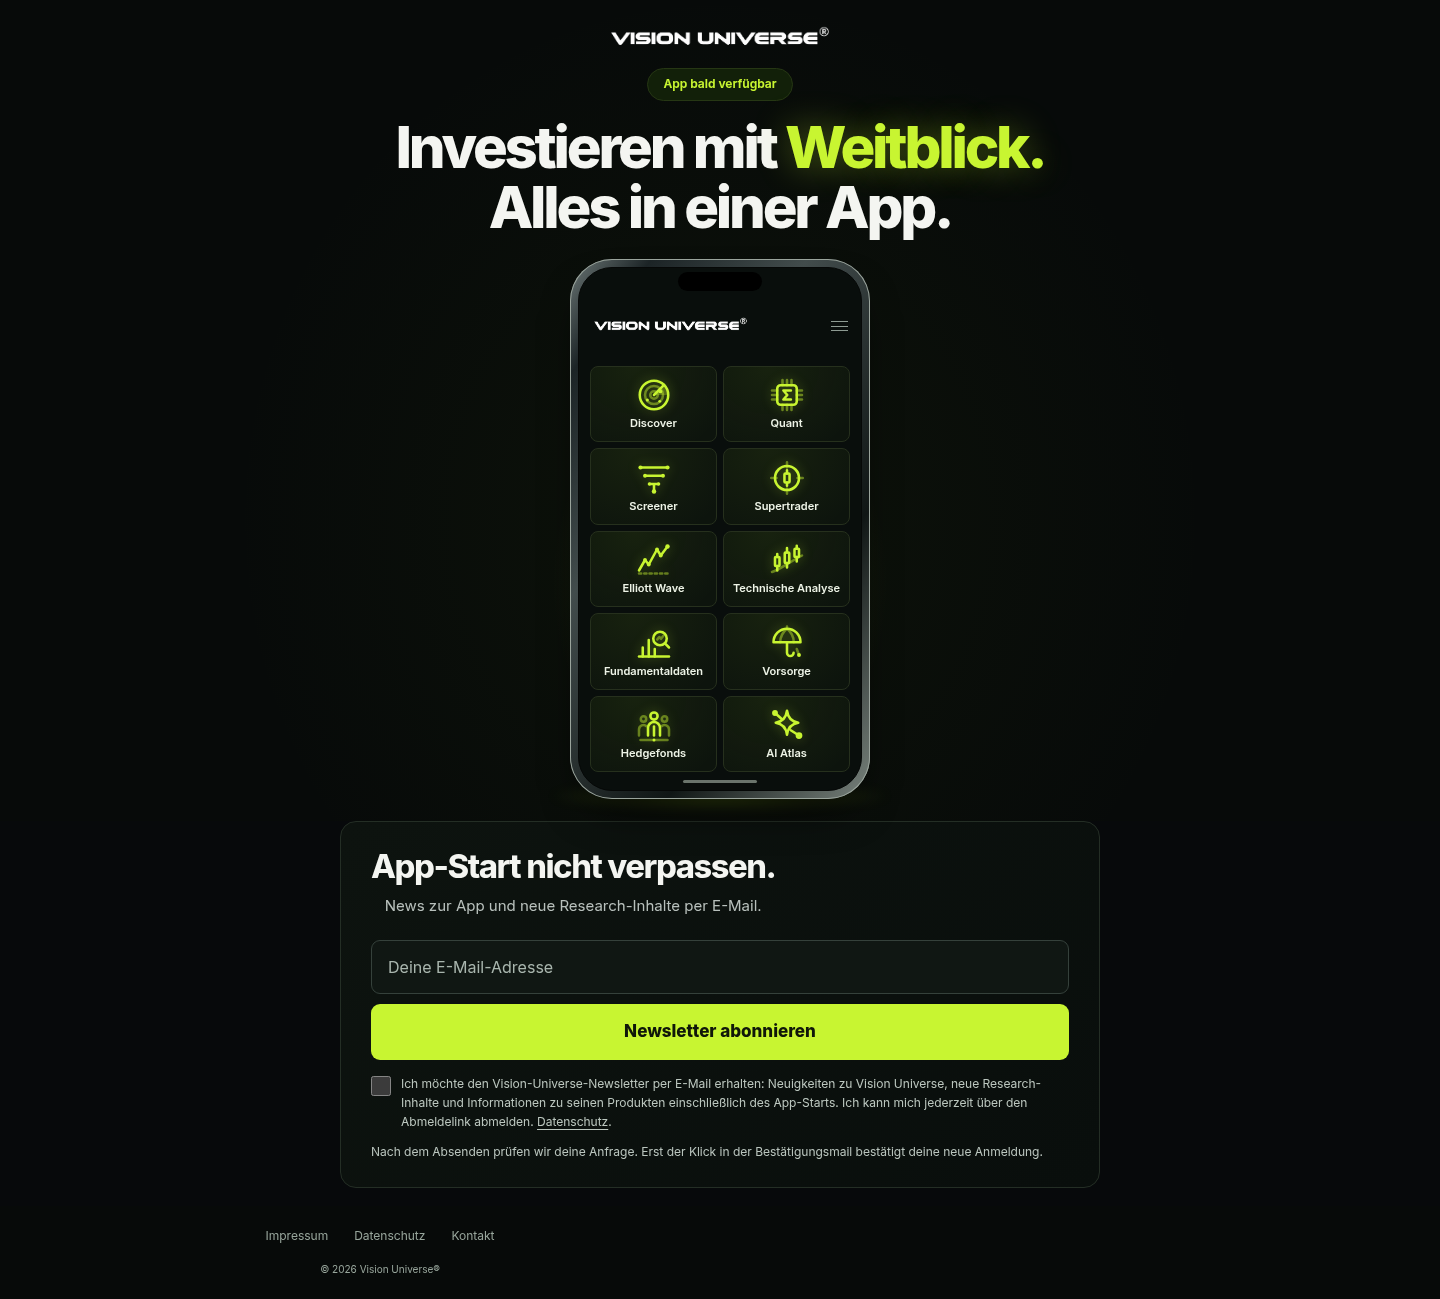
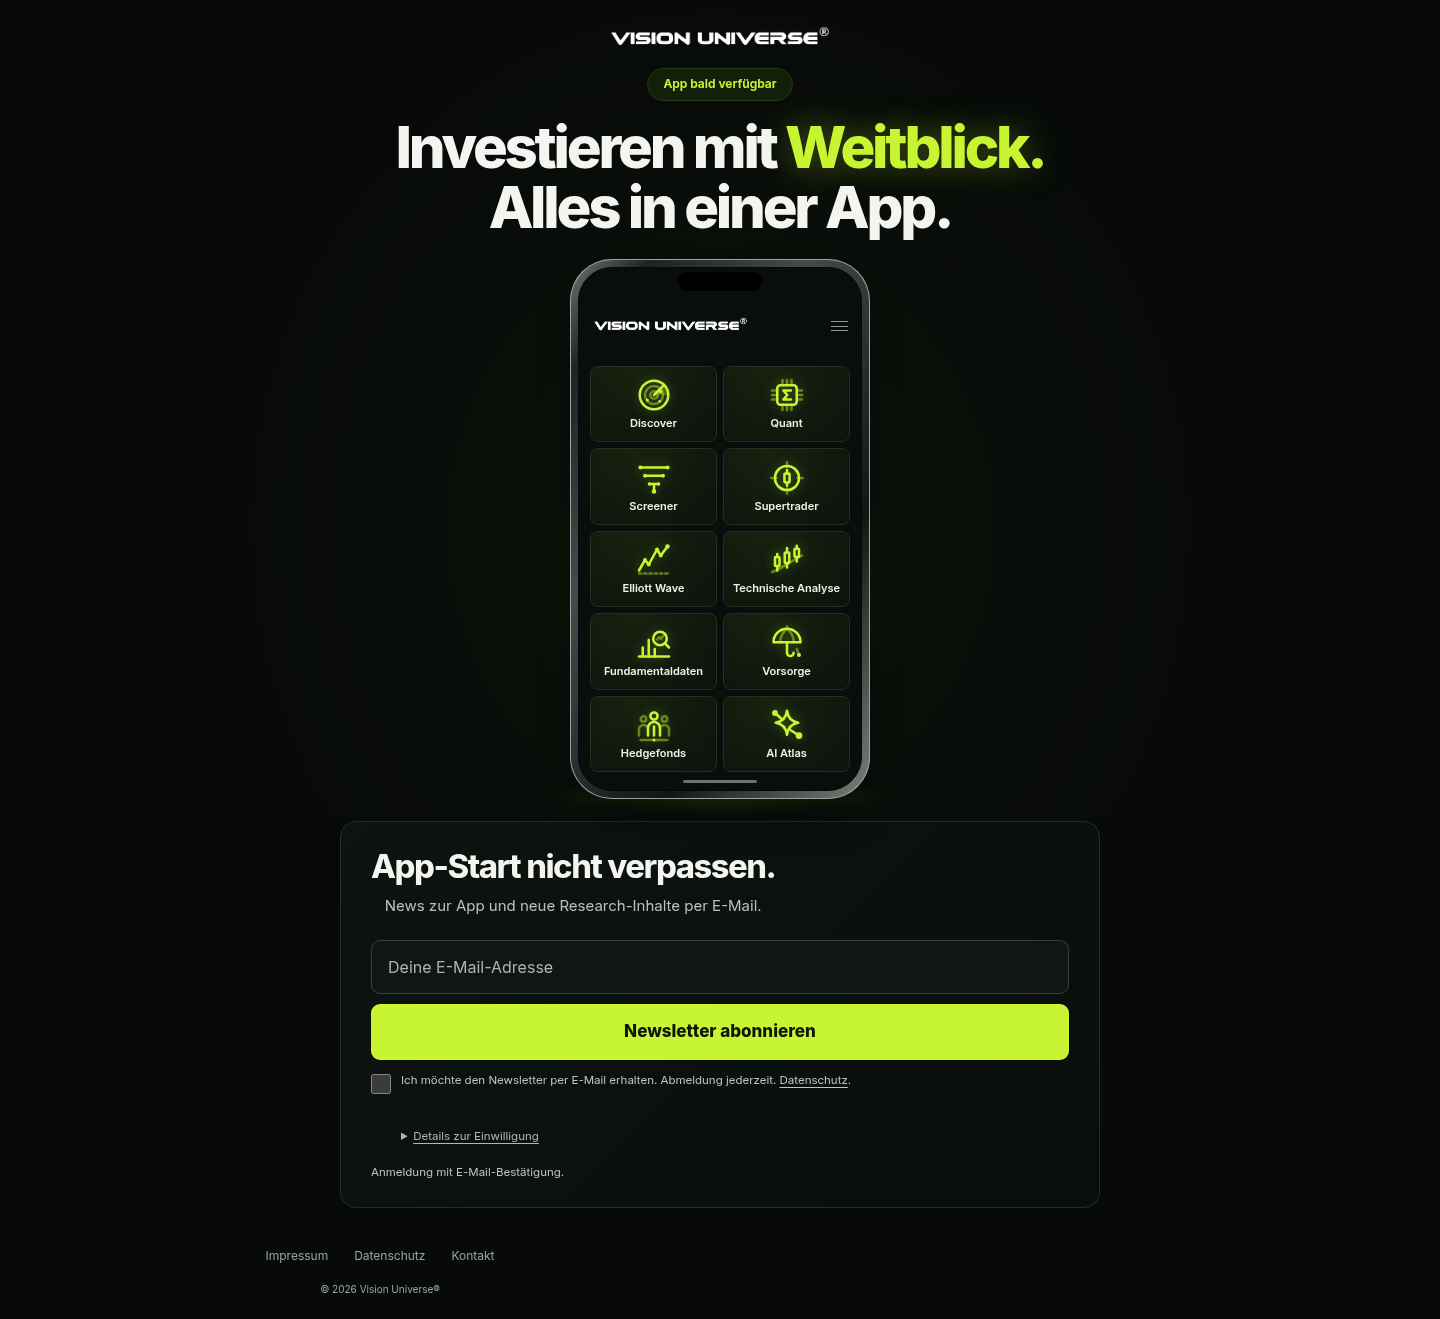
Newsletter: kompakte Einwilligung und Bestätigungshinweise (#756)
Newsletter-Hinweise unter dem Button verkürzt. Der vollständige unveränderte Einwilligungstext bleibt nativ aufklappbar, auch ohne JavaScript. Standardhinweis auf eine Zeile reduziert; sekundäre Schrift 11,5 px.

Backend, Browser-Anmeldelogik, Einwilligungsversion, DOI, öffentliche Freischaltung und rechtliche Inhalte unverändert. Chromium/WebKit, Formularzustände, WCAG, Reflow und Darstellungsvergleich geprüft. Keine echten Mails.

diff --git a/landing/index.html b/landing/index.html
@@ -97,7 +97,8 @@
             <label class="sr-only" for="email">Deine E-Mail-Adresse</label>
             <div class="form-row"><div class="nl-field"><input id="email" name="EMAIL" type="email" autocomplete="email" autocapitalize="off" spellcheck="false" placeholder="Deine E-Mail-Adresse" maxlength="254" required aria-describedby="email-error"></div><button class="btn btn-app" type="submit">Newsletter abonnieren <svg aria-hidden="true"><use href="#i-arrow"/></svg></button></div>
             <p id="email-error" class="field-error" hidden></p>
-            <label class="consent" for="consent"><input id="consent" name="OPT_IN" type="checkbox" value="1" required aria-describedby="consent-error"><span>Ich möchte den Vision-Universe-Newsletter per E-Mail erhalten: Neuigkeiten zu Vision Universe, neue Research-Inhalte und Informationen zu seinen Produkten einschließlich des App-Starts. Ich kann mich jederzeit über den Abmeldelink abmelden. <a href="./datenschutz/">Datenschutz</a>.</span></label>
+            <label class="consent" for="consent"><input id="consent" name="OPT_IN" type="checkbox" value="1" required aria-describedby="consent-error consent-details-text"><span>Ich möchte den Newsletter per E-Mail erhalten. Abmeldung jederzeit. <a href="./datenschutz/">Datenschutz</a>.</span></label>
+            <details class="consent-details"><summary>Details zur Einwilligung</summary><p id="consent-details-text">Ich möchte den Vision-Universe-Newsletter per E-Mail erhalten: Neuigkeiten zu Vision Universe, neue Research-Inhalte und Informationen zu seinen Produkten einschließlich des App-Starts. Ich kann mich jederzeit über den Abmeldelink abmelden.</p></details>
             <p id="consent-error" class="field-error" hidden></p>
             <div class="honeypot" aria-hidden="true"><label for="email-address-check">Dieses Feld bitte leer lassen</label><input id="email-address-check" type="text" name="email_address_check" tabindex="-1" autocomplete="off"></div>
             <input type="hidden" name="locale" value="de"><input type="hidden" name="CONSENT_VERSION" value="vu-newsletter-v1">

diff --git a/landing/styles.css b/landing/styles.css
@@ -54,12 +54,17 @@ fieldset{border:0;min-width:0}
 .nl-form .btn{width:100%;min-height:56px;padding:12px 16px;border-radius:9px;font-size:17px;font-weight:800;background:var(--lime);color:#101709;box-shadow:none}
 .nl-form .btn:hover{background:#d7ff50;box-shadow:0 8px 28px -18px rgba(200,245,49,.55)}
 .nl-form .btn svg{display:none}
-.consent{display:flex;align-items:flex-start;gap:10px;margin-top:14px;min-height:44px;font-size:12px;line-height:1.6;color:#bcc7bf;cursor:pointer}
+.consent{display:flex;align-items:flex-start;gap:10px;margin-top:12px;min-height:44px;font-size:11.5px;line-height:1.5;color:#bcc7bf;cursor:pointer}
 .consent span{min-width:0;overflow-wrap:anywhere}
 .consent input{flex:none;width:20px;height:20px;margin:2px 0;accent-color:var(--lime)}
 .consent a{text-underline-offset:3px}
+.consent-details{margin-left:30px;color:#acb9af;font-size:11.5px;line-height:1.5}
+.consent-details summary{width:fit-content;min-height:44px;padding:12px 0;cursor:pointer;text-decoration:underline;text-underline-offset:3px;list-style-position:inside}
+.consent-details p{font-size:12px;line-height:1.6;padding:0 0 8px}
+/* The always-visible public status already covers the no-JS confirmation hint. */
+.nl-form[data-ready="true"] noscript .form-status{display:none}
 .field-error{font-size:14px;line-height:1.5;color:#ffbab4;margin-top:8px}
-.form-status{font-size:12px;line-height:1.5;color:#bac5be;margin-top:12px}
+.form-status{font-size:11.5px;line-height:1.5;color:#bac5be;margin-top:4px}
 .honeypot{position:absolute;width:1px;height:1px;overflow:hidden;clip-path:inset(50%)}
 button:disabled{cursor:not-allowed;opacity:.65}
 input:disabled{opacity:.65}

diff --git a/landing/README.md b/landing/README.md
@@ -6,7 +6,7 @@ Isolierte Coming-soon-Seite für **https://www.visionuniverse.de/**. Die Gestalt
 
 Zehn Produkte in zwei Spalten: Discover, Quant, Screener, Supertrader, Elliott Wave, Technische Analyse, Fundamentaldaten, Vorsorge, Hedgefonds und AI Atlas. Neun Icons stammen bytegleich aus dem bestehenden zentralen [Original-Sprite](assets/product-icons.svg), mit [Commit und SHA-256](reference/product-icons-source.json). AI Atlas verwendet das unveränderte ursprüngliche `h-atlas`-Symbol. Original-Logo, lokale Inter-Datei und Research-Basis-CSS bleiben erhalten. Keine erfundenen Kurse, Kennzahlen oder fertigen App-Funktionen. Das Motiv ist statisch und benötigt weder App-Runtime noch Discover-Swipe-Skript.
 
-**Ausschließlich Darstellung und Marketing:** Der vollständige Formular-DOM einschließlich Einwilligung, Feldern, Standardwerten und Rückmeldungen wird im Designvergleich gegen den Ausgangsstand geprüft. Backend, Brevo, DOI, Abmeldung, Tracking, API-Aufrufe, Listen, Secrets und Laufzeitfreigaben bleiben unverändert. Die fünf Rechts-/Bestätigungsseiten werden auf wortgleichen sichtbaren Inhalt und identische Linkziele geprüft; nur ihr bereits vorbereitetes dunkles Styling gehört zum Design. Kein echter Mailtest und kein Versand.
+**Ausschließlich Darstellung und Marketing:** Die sichtbare Zustimmung ist verkürzt; „Details zur Einwilligung“ öffnet den vollständigen unveränderten `vu-newsletter-v1`-Text. Feldnamen, Vorgaben, API-Ziel und Freischaltung werden weiterhin mit der Basis verglichen; nur die ausdrücklich geänderte Darstellung und der kurze Standardhinweis werden dafür normalisiert. Fehlerrückmeldungen bleiben vollständig sichtbar. Backend, Brevo, DOI, Abmeldung, Tracking, API-Aufrufe, Listen, Secrets und Laufzeitfreigaben bleiben unverändert. Die fünf Rechts-/Bestätigungsseiten werden auf wortgleichen sichtbaren Inhalt und identische Linkziele geprüft; nur ihr bereits vorbereitetes dunkles Styling gehört zum Design. Kein echter Mailtest und kein Versand.
 
 Die Browserprüfungen ersetzen die überholten Galerie-Annahmen durch Anforderungen der freigegebenen Bildvorlage: genau ein zentriertes iPhone, zehn vollständige Namen, zwei Spalten, keine Geräte-/Textüberdeckung, Formular direkt darunter, keine horizontalen Überläufe und 44-px-Touchflächen im Formular. Alle Sicherheits-, Einwilligungs- und WCAG-Prüfungen bleiben bestehen. Die Höhenbudgets sind wieder die ursprünglichen Grenzen (Desktop 1800 px, iPhone 1688 px); keine zusätzliche Galeriehöhe.
 

diff --git a/landing/review/redesign/README.md b/landing/review/redesign/README.md
@@ -14,6 +14,6 @@ Bilder: `npm run test:design`. Vorher ist der unveränderte Produktions-Quellsta
 
 Der Designvertrag prüft Original-Logo/Font/Basis-CSS, Claim/Grün, exakt ein zentriertes iPhone, zehn unbeschnittene Produktnamen in zwei Spalten, Formular unmittelbar unter dem Motiv, 44-px-Formular-Touchflächen und 16-px-Eingabeschrift. Viewports 320/375/390/768/1440 Pixel ohne horizontalen Seitenüberlauf. Ursprüngliche Höhenbudgets: Desktop 1800 px, iPhone 1688 px, schmal 2000 px; keine zusätzliche Galeriehöhe.
 
-Der vollständige Formular-DOM ist mit der Basis identisch, einschließlich Einwilligung, Link, Feldern, Vorgaben und Rückmeldungen. Die fünf Rechts-/Bestätigungsseiten werden mit wortgleichem Text und identischen Links verglichen und auf WCAG geprüft. Original-Sprite: [Herkunft](../../reference/product-icons-source.json). Keine externen Anfragen und keine Formular-POSTs im visuellen Vergleich.
+Die kompakte Zustimmung und der Standardhinweis sind ausdrücklich geänderte Darstellung. Der vollständige ursprüngliche Einwilligungstext bleibt nativ aufklappbar. Der Vergleich normalisiert ausschließlich diese benannten Darstellungsänderungen; sämtliche übrigen Formularattribute, Felder, Vorgaben und Fehlerzustände bleiben mit der Basis identisch. [Aktuelle Formularansichten](../compact-signup/README.md). Die fünf Rechts-/Bestätigungsseiten werden mit wortgleichem Text und identischen Links verglichen und auf WCAG geprüft. Original-Sprite: [Herkunft](../../reference/product-icons-source.json). Keine externen Anfragen und keine Formular-POSTs im visuellen Vergleich.
 
 Bestehende synthetische Browsertests prüfen weiterhin Fehler, Einwilligung, Honeypot, Offline-Zustand, laufende/fehlgeschlagene/unklare Antworten, geschlossenes/kontrolliertes/öffentliches Formular, Weiterleitung, ohne JavaScript und 200-%-Textvergrößerung. Die überholten Slider-Bedienfälle sind durch Prüfungen der statischen Produktansicht ersetzt. Sicherheits- und WCAG-Gates bleiben bestehen; kein echter Mailtest für die reine Darstellung.

diff --git a/landing/review/compact-signup/README.md b/landing/review/compact-signup/README.md
@@ -1,0 +1,8 @@
+# Kompakte Newsletter-Hinweise
+
+Vorher: veröffentlichter Stand a96efcb32bbc297347b79cb47f9586dba8bc10ed. Nachher: aktueller Branch. Lokaler öffentlicher Build; keine API-Anbindung oder Mails. iPhone-Viewport 375 × 667, Desktop 1440 × 900. Leere Felder; der vollständige unveränderte Einwilligungstext ist nativ aufklappbar, auch ohne JavaScript.
+
+- [iPhone vorher](before-iphone.png) · [nachher](after-iphone.png) · [Details geöffnet](expanded-iphone.png)
+- [Desktop vorher](before-desktop.png) · [nachher](after-desktop.png)
+
+Reproduktion: gleiche Original-Assets und öffentliche Konfiguration beider Quellstände; Playwright-Chromium, lokaler HTTP-Server, Screenshot der `.nl-box`. Keine Aufnahme auf einem physischen iPhone. Sicherheits-, API-, Freischaltungs- und Fehlerzustandsprüfungen bleiben bestehen.
